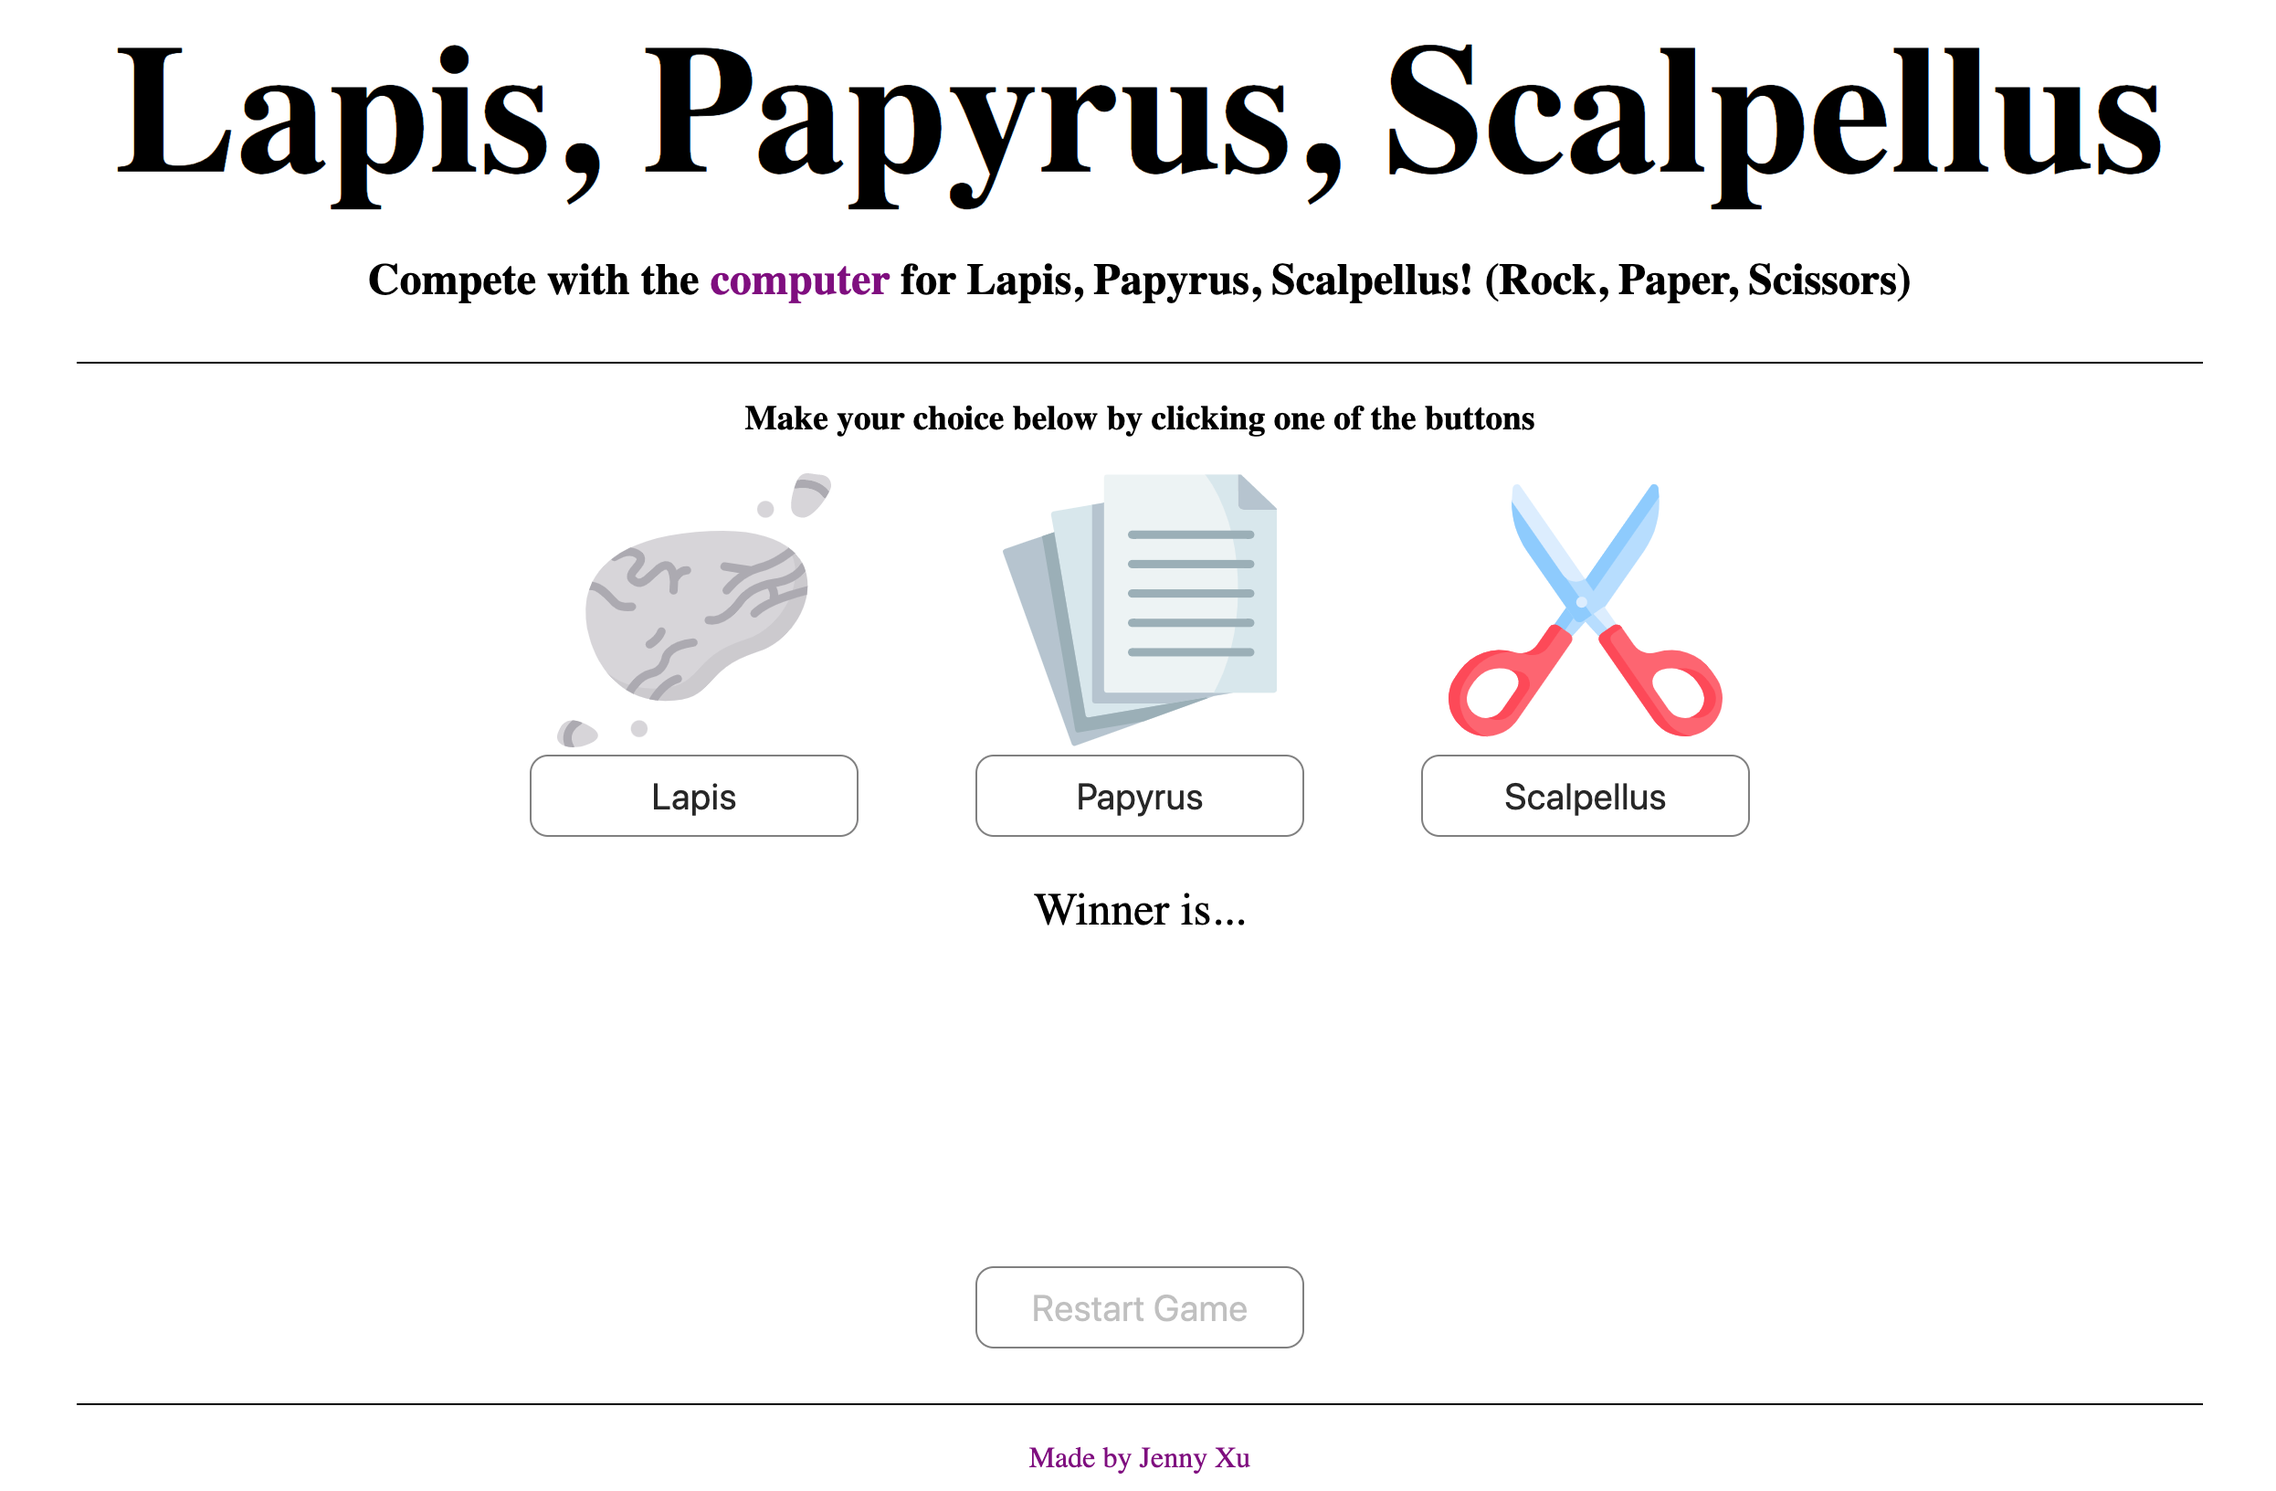
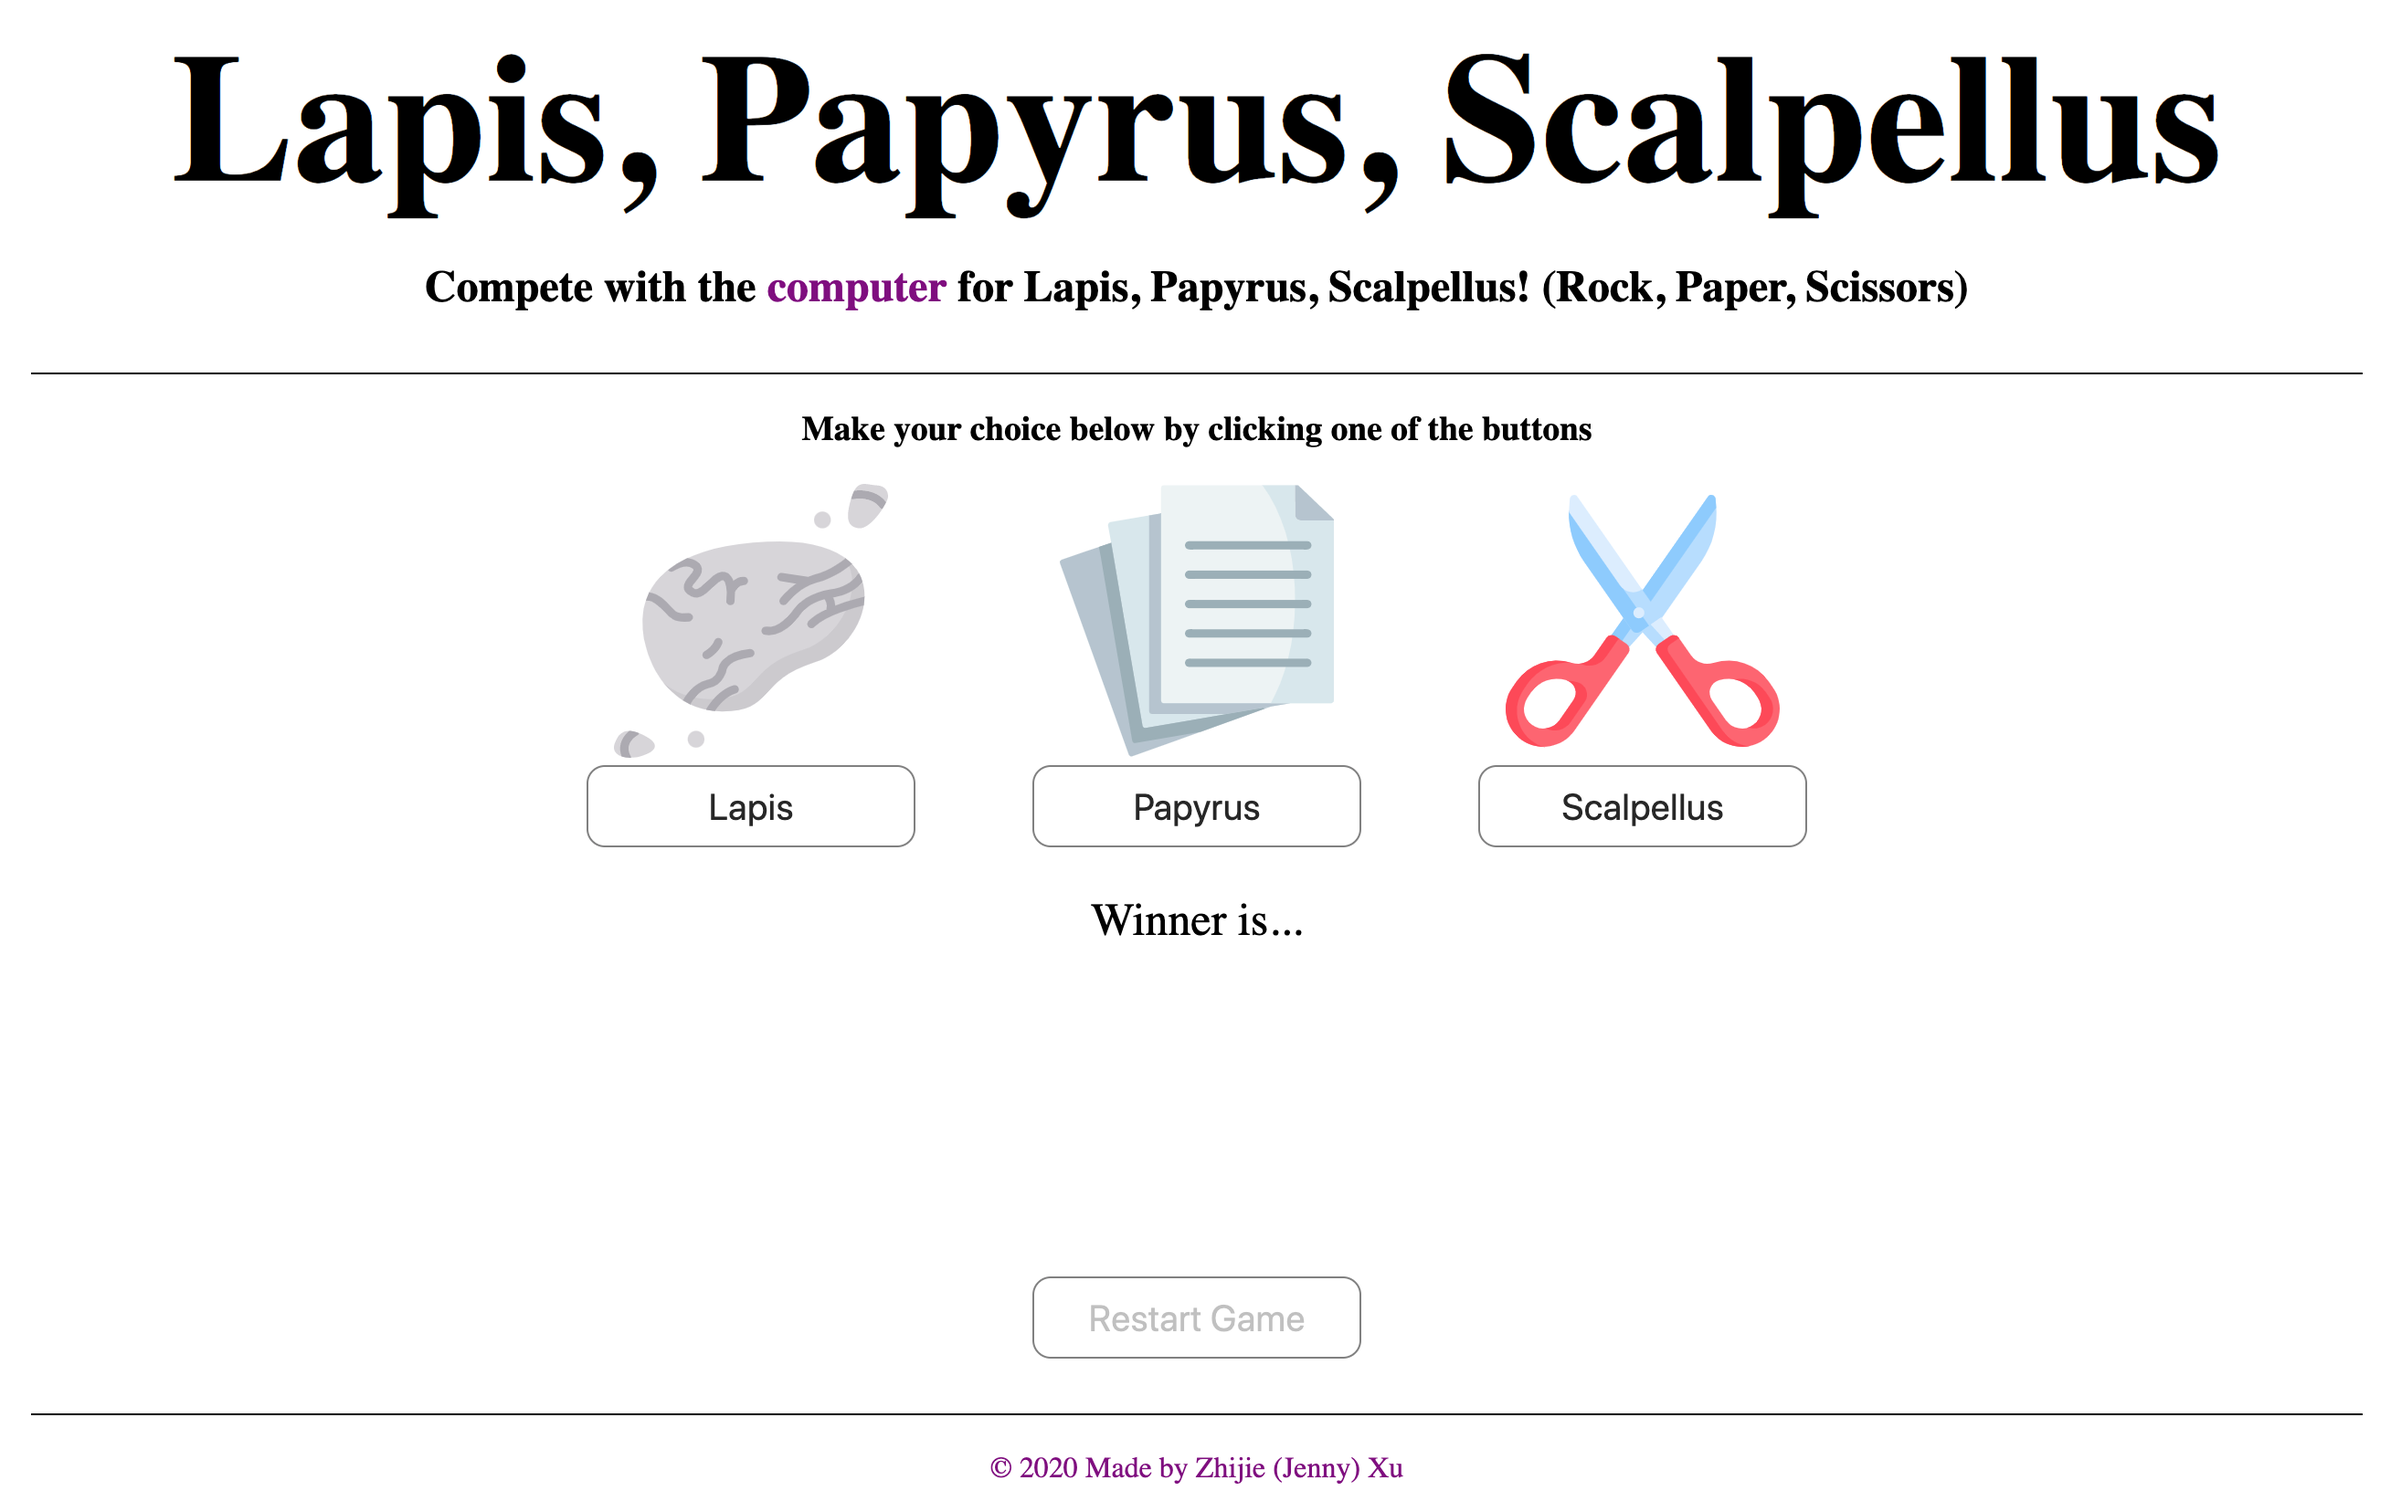
update LPS pic

diff --git a/css/style.css b/css/style.css
@@ -89,7 +89,7 @@ main {
 }
 
 .projectsDiv {
-  width: 800px;
+  width: 850px;
   margin: 0 auto;
   border-top: 5px solid #0252de;
   border-bottom: 5px solid #0252de;
@@ -98,7 +98,7 @@ main {
 
 .sections {
   position: relative;
-  width: 600px;
+  width: 640px;
   height: 400px;
   margin: 30px auto;
   border-radius: 17px;
@@ -134,8 +134,9 @@ main {
 }
 
 #LPS_sec {
-  background-size: cover;
   background-image: url("../images/LPS_pic.png");
+  background-size: cover;
+  background-position: center;
 }
 
 img {
